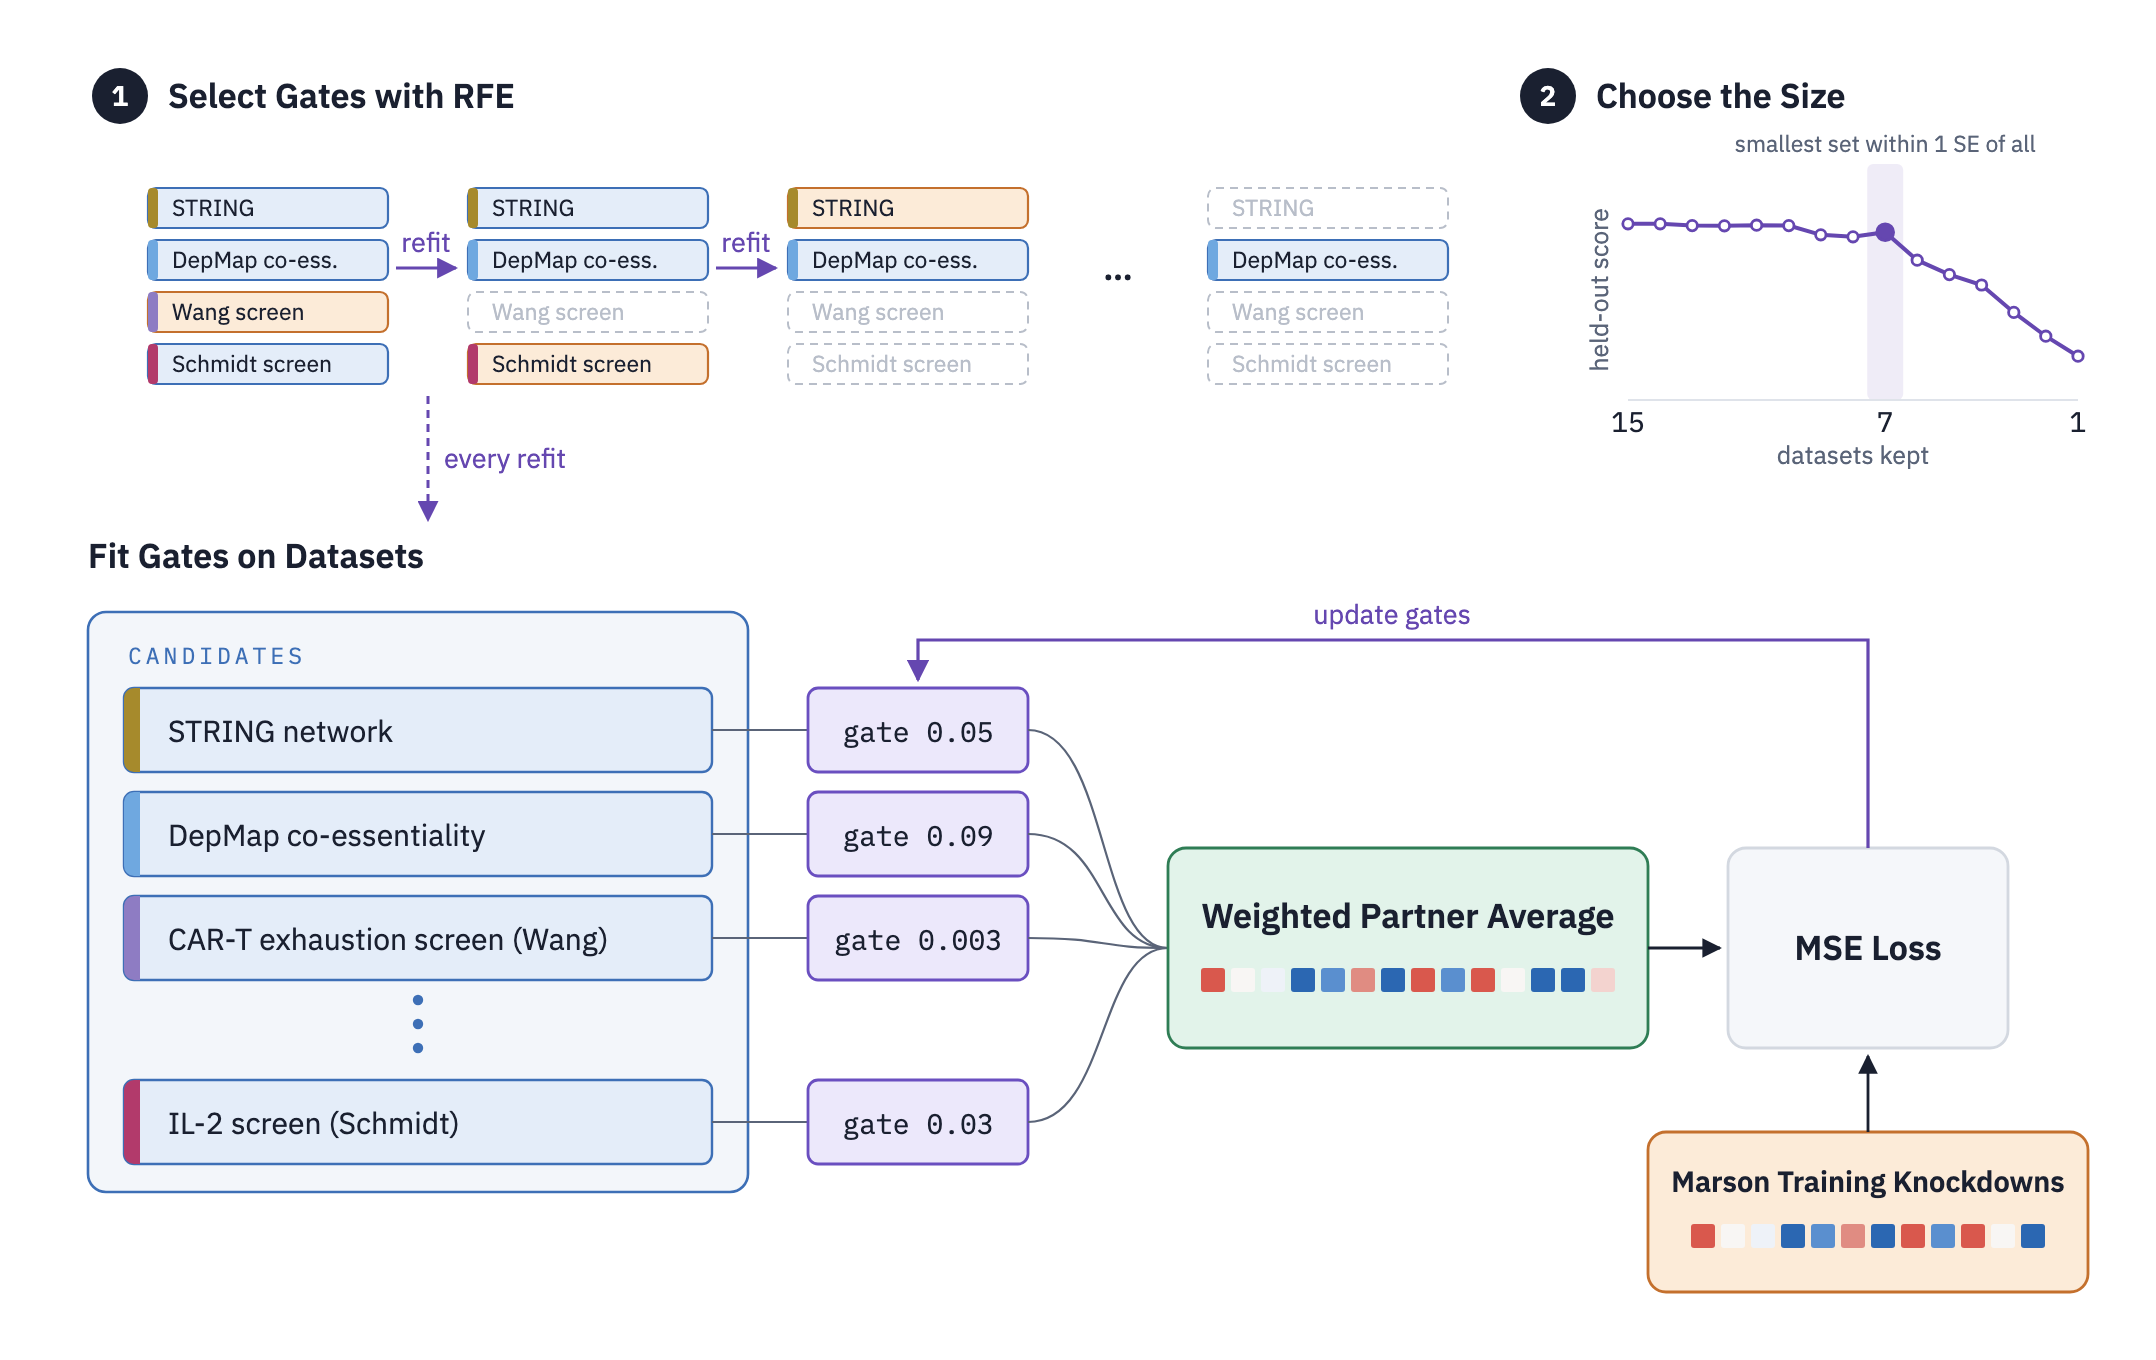
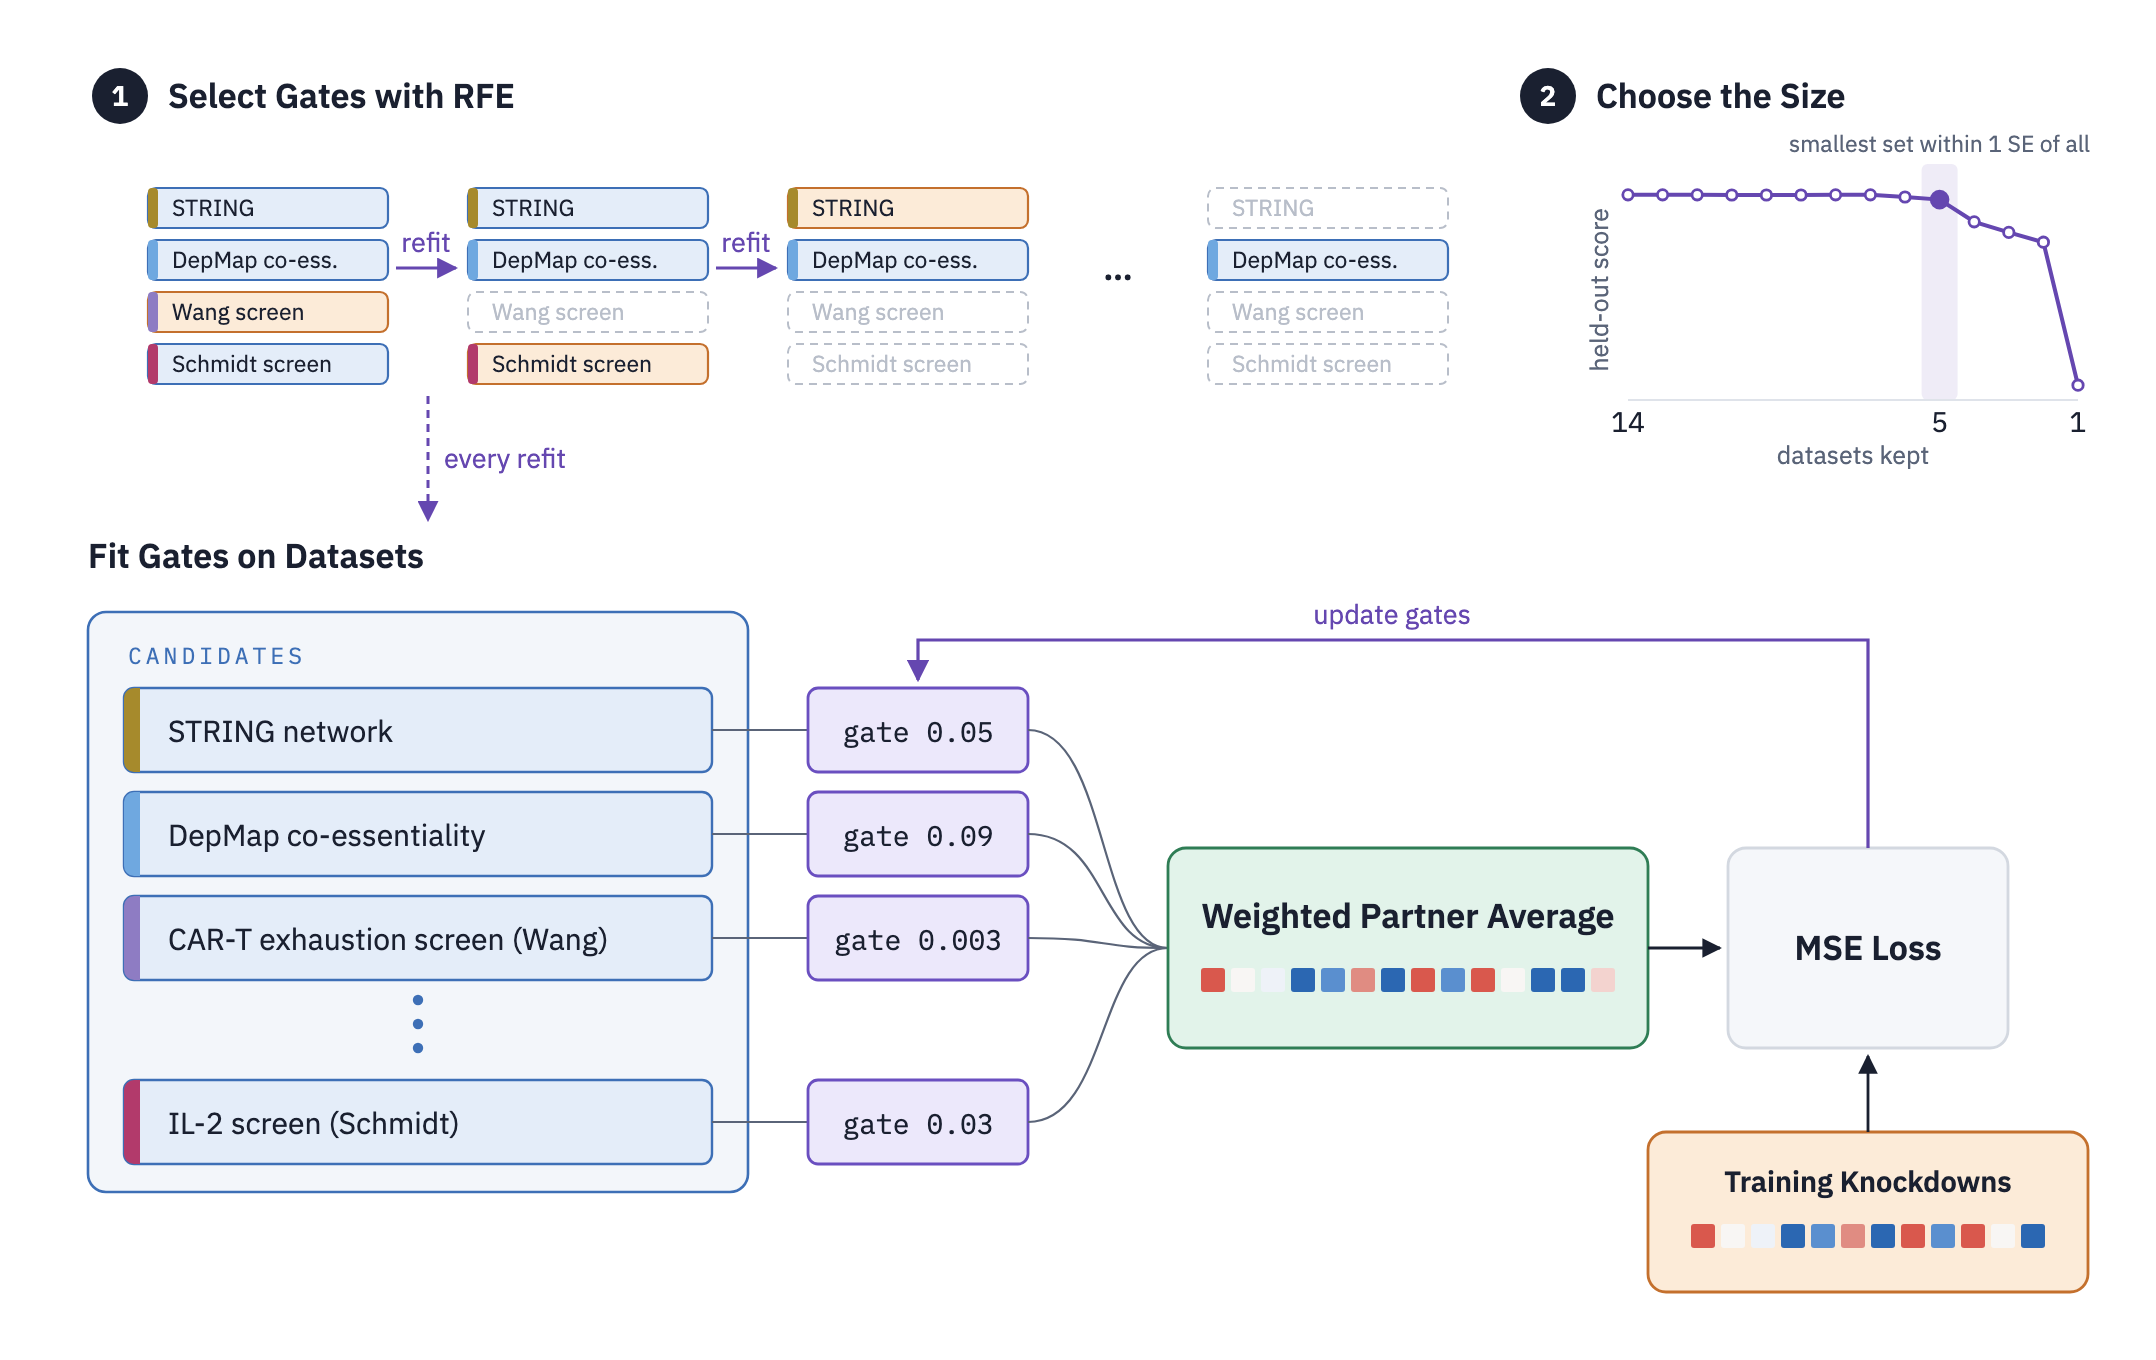
Main figure: RFE training diagram and PIE benchmark
- 2.train_test/figures/main_figure.png: (A) the RFE training diagram,
  (B) PWPA on PIE's benchmark with PIE's five genetic sources, drawn by
  0.pie_benchmark.ipynb from results/pie_benchmark_scores.tsv.
- README opens with the main figure; the separate PIE benchmark figure
  is gone.

Changed region(s): [[0.7458, 0.0926, 0.9634, 0.2162], [0.7769, 0.8647, 0.9634, 0.8956], [0.9323, 0.2162, 0.9634, 0.2779]]

diff --git a/README.md b/README.md
@@ -4,11 +4,15 @@ This repository trains and evaluates PWPA, a model that predicts the transcripti
 PWPA predicts the response to an unmeasured knockdown as a weighted average of the knockdowns measured in the same cell context, with weights set by prior knowledge of which genes behave alike.
 We compare it with PIE[^1] on PIE's own benchmark and on eight Perturb-seq datasets.
 
+![Main figure](2.train_test/figures/main_figure.png)
+
+> **Figure 1.** (A) How PWPA is trained. Each prior gets one gate, and the gates weigh the partner average that predicts each training knockdown from the others. Recursive feature elimination (RFE) drops the prior with the smallest gate and refits, and the size is the smallest set whose held-out loss is within one standard error of the fit on all priors.
+> (B) PWPA and the models in PIE's paper on PIE's benchmark of unseen knockdowns in seen contexts (Replogle–Nadig, four cell lines), with PIE's splits and metric code. The first five models are PIE's published values. PWPA uses PIE's five genetic knowledge sources as its priors. Mean over 4 folds ± 1 standard error.
+<!-- TODO(orcd): PWPA in B is K031-pie-five, fitted with the earlier L1 penalty and shuffled decoys; rerun 2.train_test/0.pie_benchmark.ipynb with RFE -->
+
 ## Approach
 
-![PWPA architecture](1.model/figures/architecture.png)
-
-Each prior dataset, such as a gene network, a CRISPR screen or a gene-set collection, gives a similarity between two genes on a common scale.
+Each prior dataset, such as a gene network, a protein embedding or a CRISPR screen, gives a similarity between two genes on a common scale.
 One gate per prior weighs these similarities into a pair score, and entmax turns the scores into sparse weights over the measured knockdowns:
 
 ```text
@@ -18,17 +22,7 @@ prediction(t) = Σ_j weight(t, j) · response(j)      t's own knockdown is never
 ```
 
 The gates are the only fitted numbers.
-Recursive feature elimination (RFE) chooses the priors: fit all gates, drop the prior with the smallest gate, refit, and keep the smallest set whose held-out loss is within one standard error of the all-priors fit.
-
-## Results
-
-<!-- TODO(orcd): PWPA here is K031-pie-five, fitted with the earlier L1 penalty and shuffled decoys; rerun 2.train_test/0.pie_benchmark.ipynb with RFE -->
-![PIE benchmark](2.train_test/figures/pie_benchmark.png)
-
-> PWPA and the models in PIE's paper on PIE's benchmark of unseen knockdowns in seen contexts (Replogle–Nadig, four cell lines), with PIE's splits and metric code.
-> PWPA uses PIE's five genetic knowledge sources as its priors.
-> The first five bars are PIE's published values.
-> [`2.train_test`](2.train_test/) also retrains PIE on eight Perturb-seq datasets and compares the two there.
+[`2.train_test`](2.train_test/) also retrains PIE on eight Perturb-seq datasets and compares the two there.
 
 ## Modules
 

diff --git a/2.train_test/README.md b/2.train_test/README.md
@@ -24,7 +24,7 @@ The context mean, the baseline, predicts the mean training knockdown of the cont
 ## PIE's benchmark
 
 <!-- TODO(orcd): PWPA here is K031-pie-five, fitted with the earlier L1 penalty and shuffled decoys; rerun 0.pie_benchmark.ipynb with RFE -->
-![PIE benchmark](figures/pie_benchmark.png)
+![PIE benchmark](figures/main_figure.png)
 
 > Unseen knockdowns in seen contexts (Replogle–Nadig, four cell lines), with PIE's processed arrays, splits and metric code.
 > The first five bars are PIE's published values.
